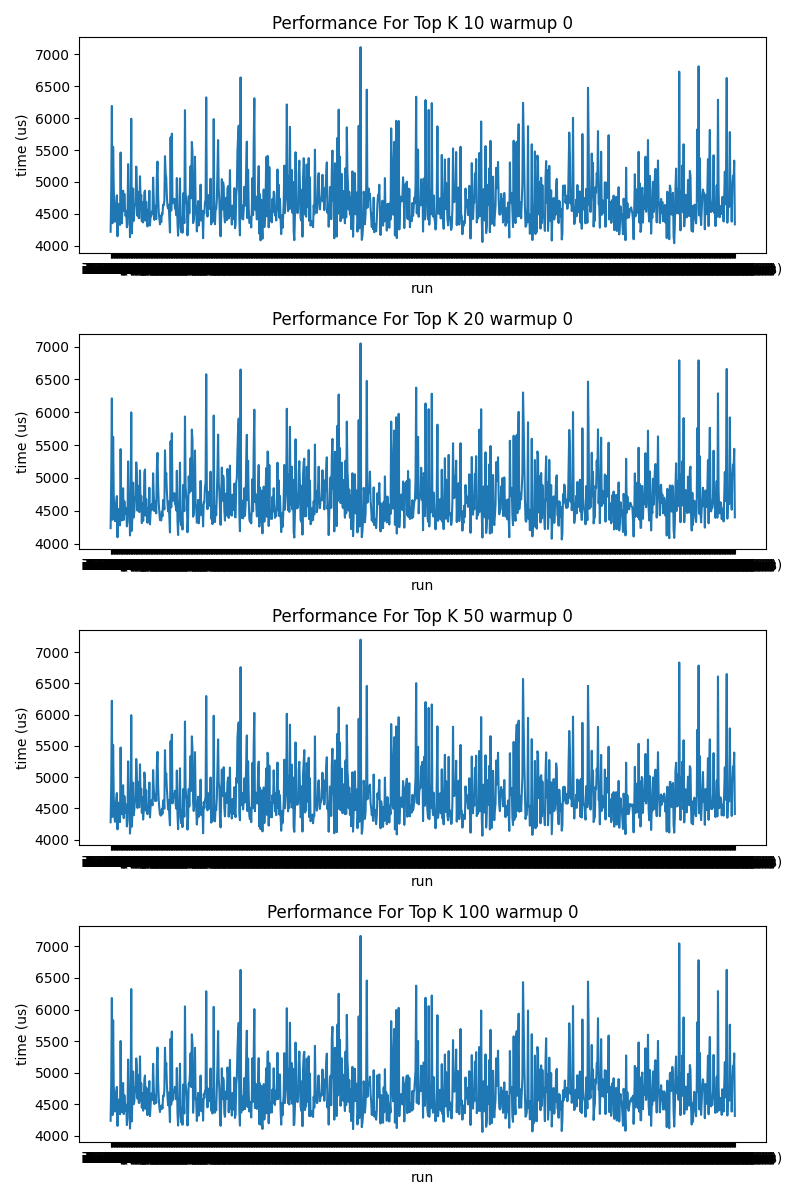
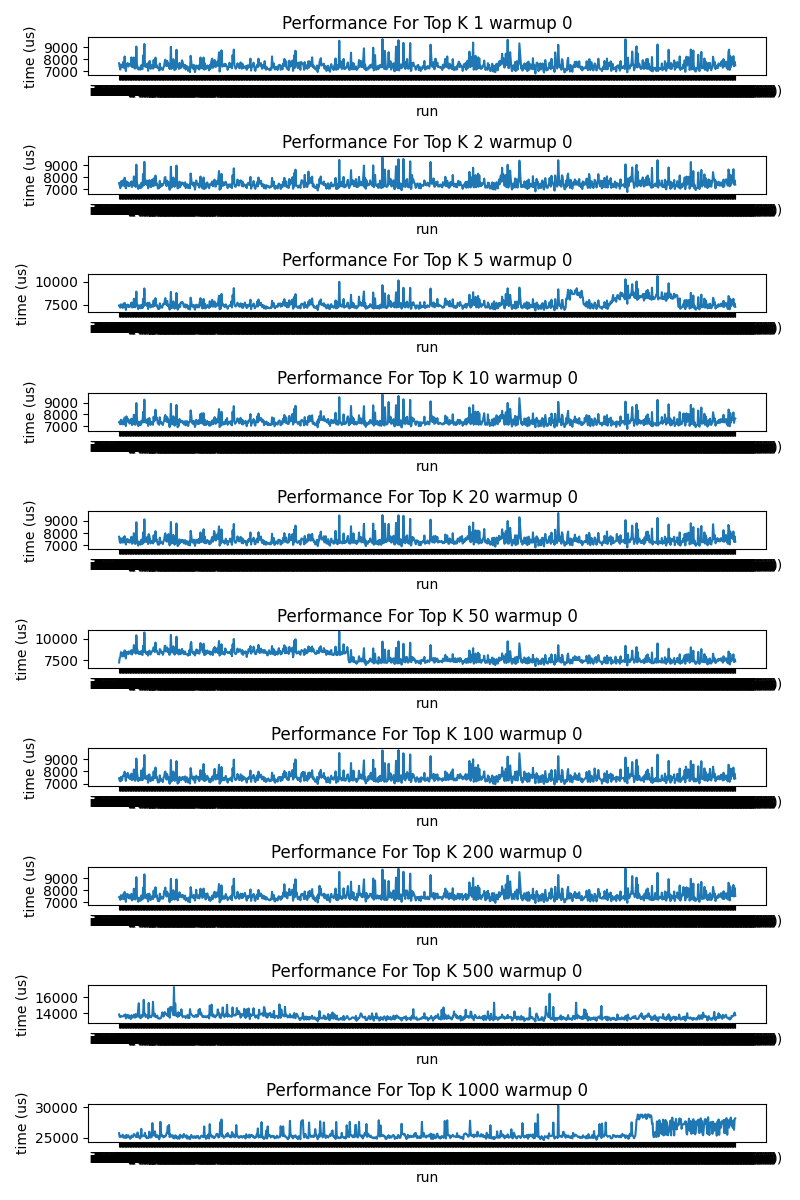
run new benchmark but still with questionable recall

diff --git a/src/bench_st.cpp b/src/bench_st.cpp
@@ -22,7 +22,7 @@ inline constexpr size_t K = 100;
 inline constexpr size_t num_searches = 1000;
 inline constexpr size_t nk[N] = { 1, 2, 5, 10, 20, 50, 100, 200, 500, 1000 };
 
-inline constexpr int num_threads = 30;
+inline constexpr int num_threads = 32;
 int main(int argc, char** argv) {
 
 	int opt;

diff --git a/README.md b/README.md
@@ -5,16 +5,16 @@ See [runbook](RUNBOOK.md).
 
 ## Temp Results
 ```
-   top k  recall (%)        var  mean (us)  p95 (us)  p99 (us)
-0      1         100  27.413850     54.856      64.0      70.0
-1      2         100  23.204355     53.479      61.0      66.0
-2      5         100  21.494406     53.510      61.0      66.0
-3     10         100  21.745870     53.628      62.0      66.0
-4     20         100  17.962908     81.873      89.0      92.0
-5     50         100  11.023377    127.260     132.0     135.0
-6    100         100  10.161597    158.579     163.0     171.0
-7    200         100  10.782377    193.471     199.0     203.0
-8    500         100   5.084979    258.544     262.0     264.0
-9   1000         100  11.226869    327.148     332.0     334.0
+   top k  recall (%)            var     mean (us)  p95 (us)  p99 (us)
+0      1        55.0  174232.215832   7493.751111   8270.80   9230.91
+1      2        55.0  171242.354088   7496.981111   8277.70   9279.04
+2      5        55.0  316238.827628   7626.012222   8728.85   9362.29
+3     10        55.0  157748.885643   7436.418889   8192.55   9063.20
+4     20        55.0  160554.080054   7437.628889   8197.20   9065.42
+5     50        55.0  379029.840988   7853.288889   8920.05   9554.96
+6    100        55.0  165858.769258   7529.054444   8311.15   9225.38
+7    200        55.0  169903.969722   7562.016667   8367.15   9269.05
+8    500        66.3  113086.289032  13568.531111  14182.80  14819.24
+9   1000        78.4  996520.486795  25651.817778  27980.20  28752.07
 ```
 ![output](output.png)
